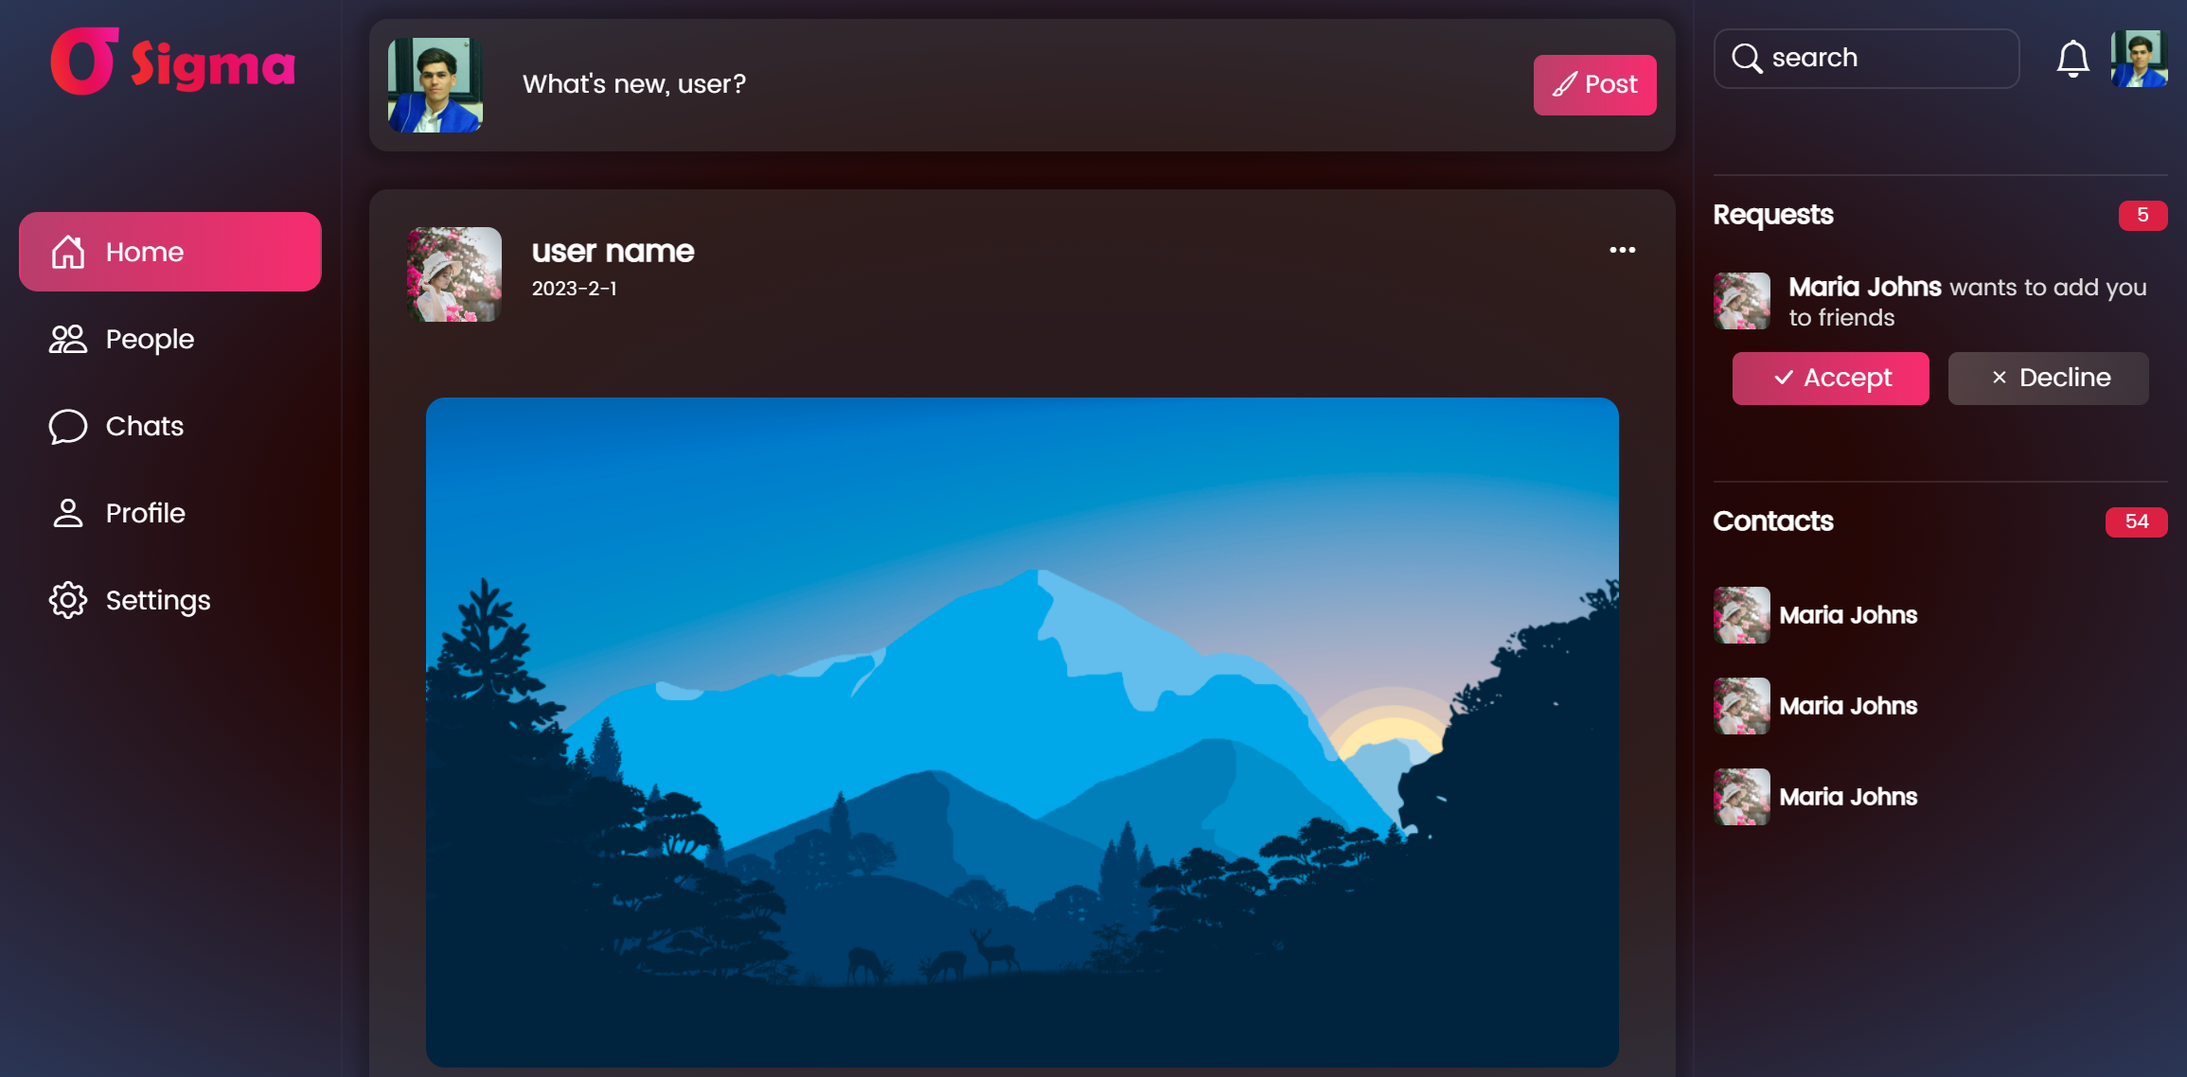
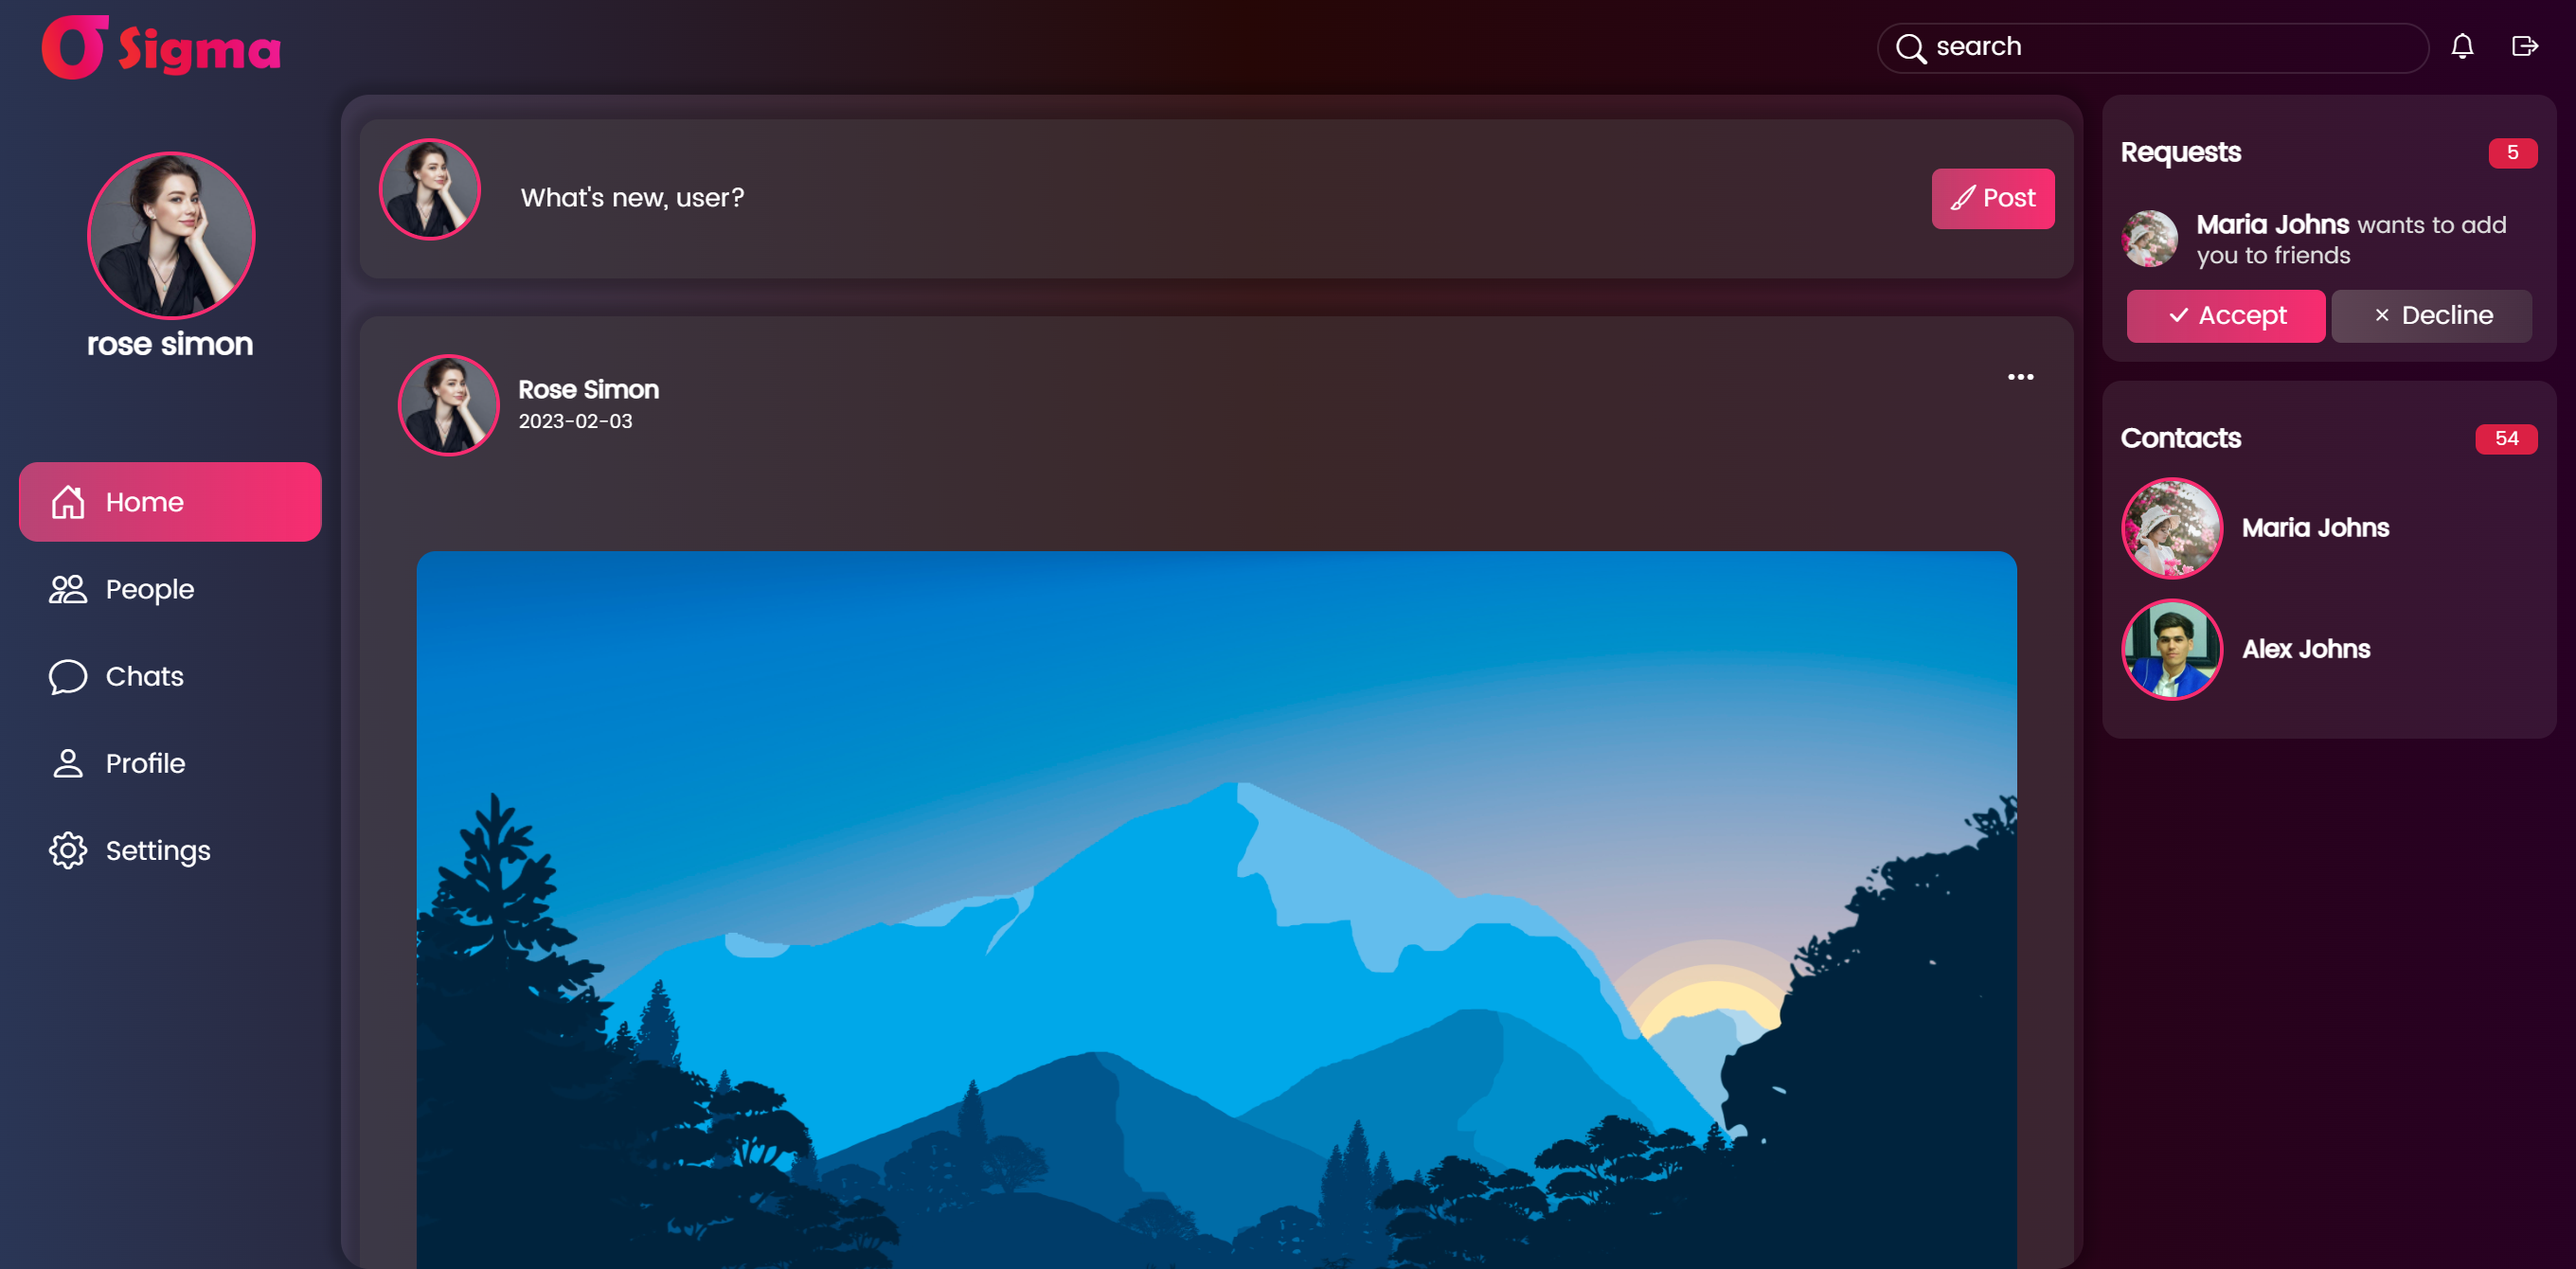
new UI Design picture added to readme.md file

diff --git a/src/components/HeaderNavbar/HeaderNavbar.js b/src/components/HeaderNavbar/HeaderNavbar.js
@@ -2,10 +2,27 @@ import React from 'react'
 import { Icons } from '../../constants/UiConstant'
 import Button from '../UI/button/Button'
 import "./HeaderNavbar.css"
-import { useSelector } from 'react-redux'
+import { useDispatch, useSelector } from 'react-redux'
+import { getCookies, removeAllCookies } from '../../Utils/Cookie'
+import actions from '../../store/Actions'
+import { useNavigate } from 'react-router-dom'
+import { Paths } from '../../constants/PathURL'
+
 
 function HeaderNavbar() {
     const state = useSelector(state => state.authentication)
+    const navigate = useNavigate()
+    const dispatch = useDispatch();
+    const logout = ()=> {
+        navigate(Paths.LOGIN)
+        removeAllCookies();
+        dispatch({
+            type:actions.LOGOUT,
+            payload:{}
+        })
+        console.log(getCookies())
+
+    }
     return (
         <nav className='header_navbar display_flex align_items_center'>
             <section className='brand_name display_flex'>
@@ -24,6 +41,7 @@ function HeaderNavbar() {
                 </div>
                 <div className='notifications'>
                     <Button icon={Icons.notification} />
+                    <Button icon={"bi bi-box-arrow-right"} click={logout} />
                 </div>
             </section>
         </nav>

diff --git a/src/store/reducer.js b/src/store/reducer.js
@@ -1,6 +1,7 @@
 import actions from "./Actions";
 import { BytesToFile } from "../Utils/BlobToFile";
 import { getCookies } from "../Utils/Cookie";
+import { act } from "react-dom/test-utils";
 function getAuthInfoFromCookie() {
     let data = getCookies()
     if (data.size > 0) {
@@ -49,6 +50,11 @@ const reducer = (state = initailState, action) => {
                 ...state,
                 authentication: authentication
             }
+            case actions.LOGOUT:
+                return {
+                    ...state,
+                    authentication:action.payload
+                }
         default:
             return state
     }

diff --git a/src/Utils/Cookie.js b/src/Utils/Cookie.js
@@ -6,6 +6,14 @@ export function setCookie(name, value, daysToLive = 1) {
     document.cookie = cookie;
 }
 
+export function removeAllCookies (){
+    document.cookie.split("; ").forEach(cookie => {
+        const theEqualIndex = cookie.indexOf("=");
+        const name = theEqualIndex > -1 ? cookie.substring(0, theEqualIndex) : cookie;
+        console.log(name)
+        document.cookie = name + "=; expires=Thu, 01 Jan 1970 00:00:00 GMT;";
+    })
+}
 
 // Return the document's cookies as a Map object.
 // Assume that cookie values are encoded with encodeURIComponent().

diff --git a/src/store/Actions.js b/src/store/Actions.js
@@ -1,6 +1,7 @@
 const actions = {
     ADD_USER_INFO : 'add_user_info',
-    ADD_CRURRENT_URL: "add_current_url"
+    ADD_CRURRENT_URL: "add_current_url",
+    LOGOUT:"logout"
 }
 
 export default actions;

diff --git a/src/components/navbar/Navbar.js b/src/components/navbar/Navbar.js
@@ -33,6 +33,7 @@ function Navbar() {
           <Link to={Paths.SETTINGS}>
             <i className='bi bi-gear'></i> <span>Settings</span></Link>
         </li>
+        
       </ul>
     </nav>
   )

diff --git a/src/constants/PathURL.js b/src/constants/PathURL.js
@@ -1,4 +1,5 @@
 export const Paths = {
+    LOGIN:"/login",
     HOME : '/',
     CHAT : '/chat',
     PEOPLE : '/people',

diff --git a/README.md b/README.md
@@ -10,9 +10,14 @@ Sigma developed and built with **React (v17.0.2)**, **react-redux(v8.0.5)**, **J
 
 Visit: [Project sigma demo](https://sigma.netlify.app/) -->
 
-
+## Home page
 ![Home page](src/assets/UIDesign/home.png)
+## Chat page
 ![Chat page](src/assets/UIDesign/chat.png)
+## Profile page
+![profile page](src/assets/UIDesign/profile.png)
+## People page
+![People page](src/assets/UIDesign/people.png)
 
 
 # Features
